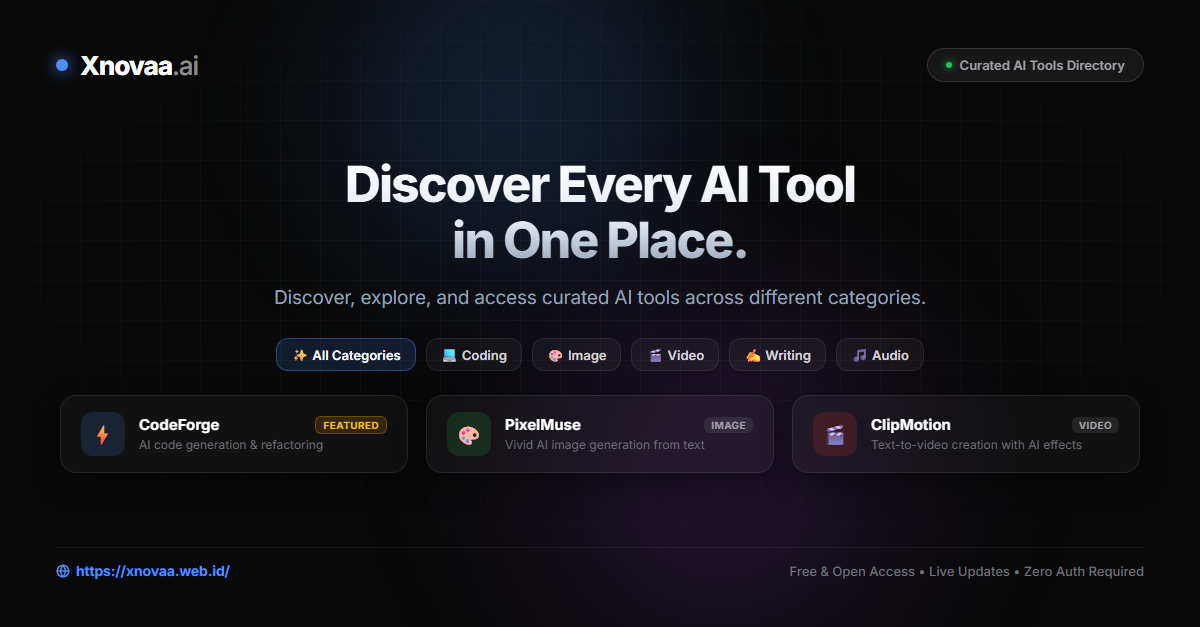
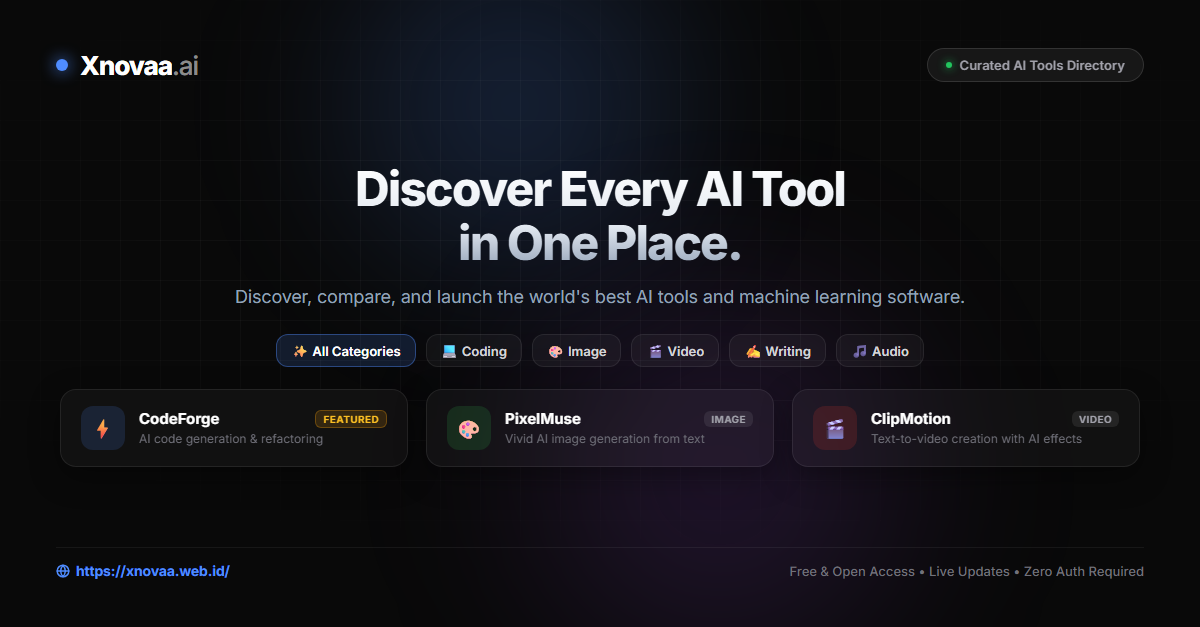
fix(seo): refine Open Graph description and add image fallback tags for LinkedIn preview

diff --git a/index.html b/index.html
@@ -5,7 +5,7 @@
   <meta charset="UTF-8">
   <meta name="viewport" content="width=device-width, initial-scale=1.0">
   <title id="siteTitle">Xnovaa.ai — Discover Every AI Tool in One Place</title>
-  <meta name="description" id="siteDescription" content="Discover, explore, and access curated AI tools across different categories.">
+  <meta name="description" id="siteDescription" content="Discover, compare, and launch the world's best AI tools and machine learning software.">
   <link rel="canonical" href="https://xnovaa.web.id/">
 
   <!-- Open Graph / Facebook / LinkedIn -->
@@ -13,19 +13,21 @@
   <meta property="og:url" content="https://xnovaa.web.id/">
   <meta property="og:site_name" content="Xnovaa.ai">
   <meta property="og:title" content="Xnovaa.ai — Discover Every AI Tool in One Place">
-  <meta property="og:description" content="Discover, explore, and access curated AI tools across different categories.">
+  <meta property="og:description" content="Discover, compare, and launch the world's best AI tools and machine learning software.">
   <meta property="og:image" content="https://xnovaa.web.id/og-image.png">
+  <meta property="og:image:url" content="https://xnovaa.web.id/og-image.png">
   <meta property="og:image:secure_url" content="https://xnovaa.web.id/og-image.png">
   <meta property="og:image:type" content="image/png">
   <meta property="og:image:width" content="1200">
   <meta property="og:image:height" content="627">
   <meta property="og:image:alt" content="Xnovaa.ai — Discover Every AI Tool in One Place">
+  <link rel="image_src" href="https://xnovaa.web.id/og-image.png">
 
   <!-- Twitter / X -->
   <meta name="twitter:card" content="summary_large_image">
   <meta name="twitter:url" content="https://xnovaa.web.id/">
   <meta name="twitter:title" content="Xnovaa.ai — Discover Every AI Tool in One Place">
-  <meta name="twitter:description" content="Discover, explore, and access curated AI tools across different categories.">
+  <meta name="twitter:description" content="Discover, compare, and launch the world's best AI tools and machine learning software.">
   <meta name="twitter:image" content="https://xnovaa.web.id/og-image.png">
   <meta name="twitter:image:alt" content="Xnovaa.ai — Discover Every AI Tool in One Place">
 
@@ -36,7 +38,7 @@
     "@type": "WebSite",
     "name": "Xnovaa.ai",
     "url": "https://xnovaa.web.id/",
-    "description": "Discover, explore, and access curated AI tools across different categories.",
+    "description": "Discover, compare, and launch the world's best AI tools and machine learning software.",
     "image": "https://xnovaa.web.id/og-image.png",
     "potentialAction": {
       "@type": "SearchAction",

diff --git a/assets/js/storage.js b/assets/js/storage.js
@@ -5,7 +5,7 @@ const StorageService = {
 
   DEFAULT_SETTINGS: {
     siteTitle: "Xnovaa.ai — Discover Every AI Tool in One Place",
-    siteDescription: "Discover, explore, and access curated AI tools across different categories.",
+    siteDescription: "Discover, compare, and launch the world's best AI tools and machine learning software.",
     githubUrl: "https://github.com/SYTE001",
     twitterUrl: "https://x.com"
   },
